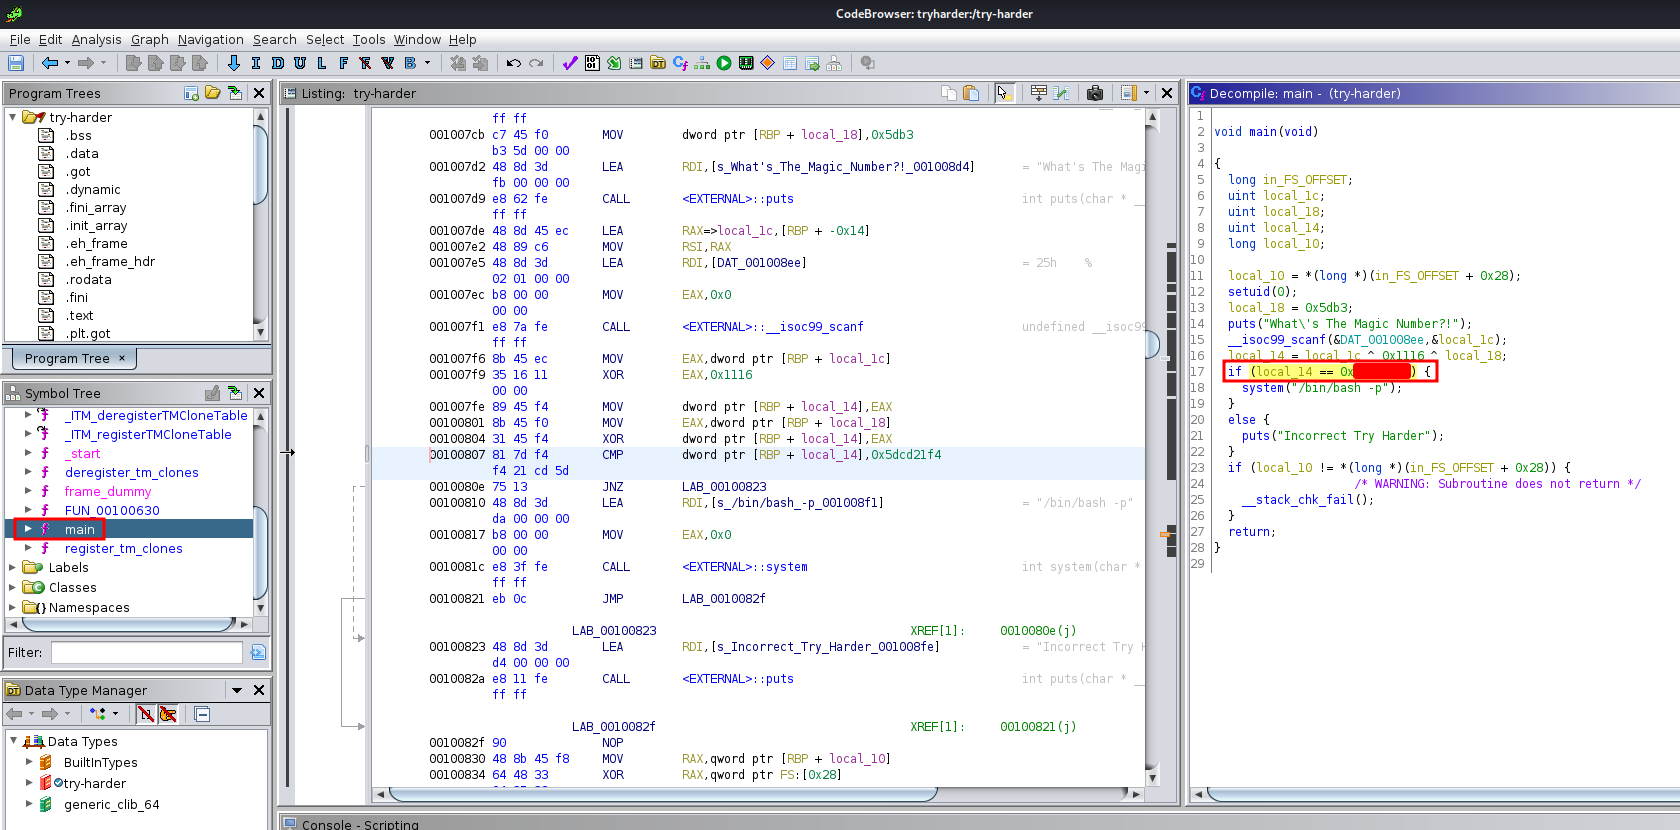
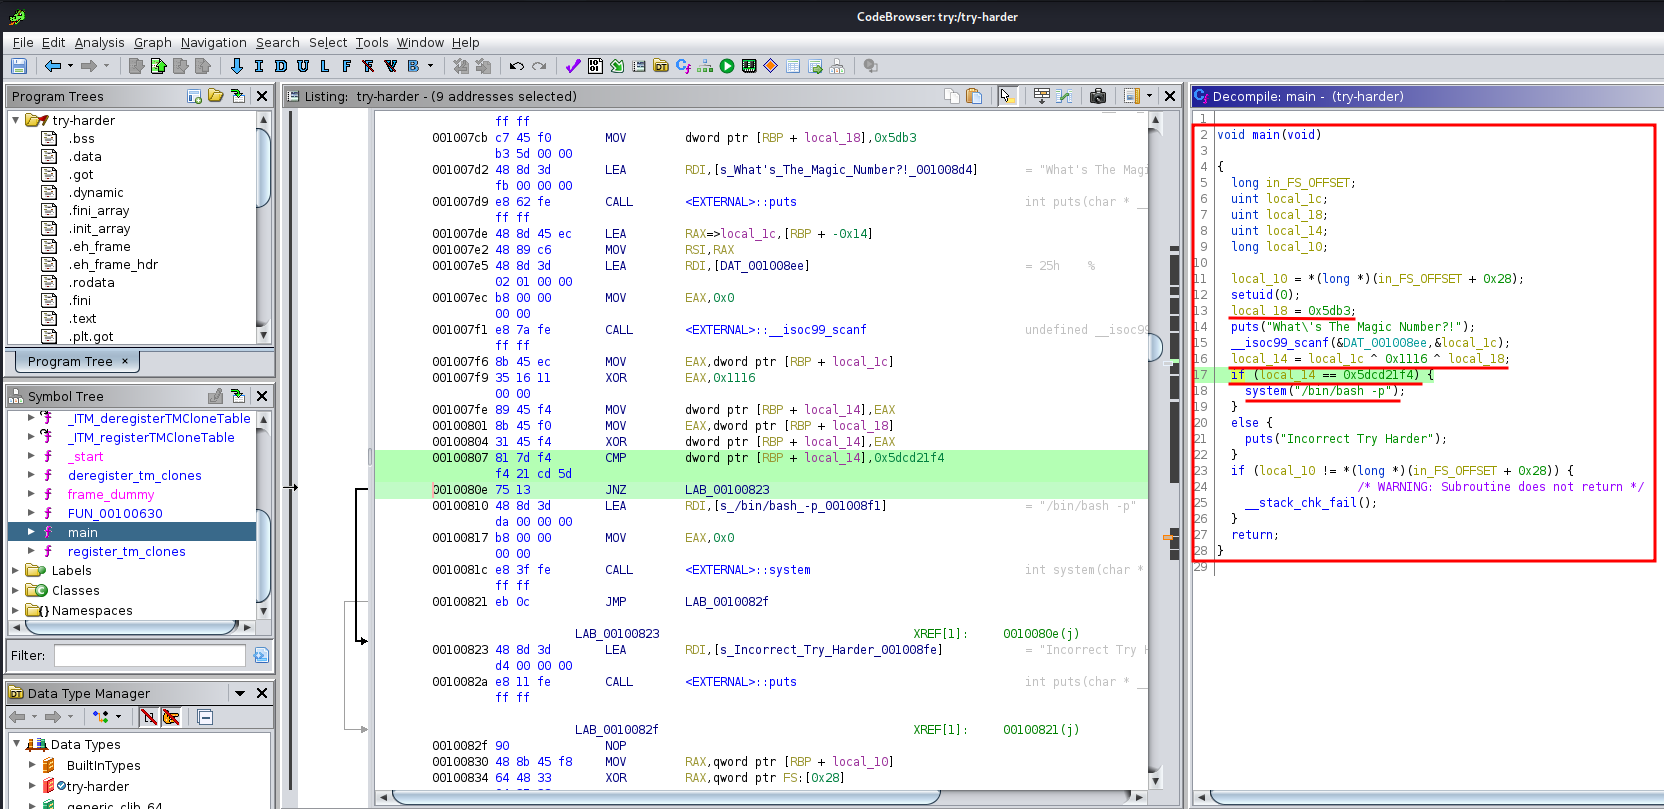
Added Bookstore writeup

Changed region(s): [[0.0, 0.0, 1.0, 1.0], [0.5312, 0.8653, 0.5625, 0.8962]]

diff --git a/TryHackMe/Bookstore/README.md b/TryHackMe/Bookstore/README.md
@@ -104,7 +104,7 @@ Open Ports        | Service
 
 **The `js` directory sometimes will contain some juicy information:**
 
-![](https://github.com/siunam321/CTF-Writeups/blob/main/TryHackMe/Bookstore/images/a4png)
+![](https://github.com/siunam321/CTF-Writeups/blob/main/TryHackMe/Bookstore/images/a4.png)
 
 **After checking other legit thrid-part JavaScript library, the `api.js` stood out:**
 
@@ -256,10 +256,6 @@ sid:x:1000:1000:Sid,,,:/home/sid:/bin/bash
 **Let's find the debugger pin in his bash history file!**
 
 ![](https://github.com/siunam321/CTF-Writeups/blob/main/TryHackMe/Bookstore/images/a11.png)
-
-```
-cd /home/sid whoami export WERKZEUG_DEBUG_PIN={Redacted} echo $WERKZEUG_DEBUG_PIN python3 /home/sid/api.py ls exit
-```
 
 **Found it!! Let's go to `http://bookstore.thm:5000/console` to unlock the Werkzeug Debugger console!**
 
@@ -460,7 +456,7 @@ Serving HTTP on 0.0.0.0 port 8000 (http://0.0.0.0:8000/) ...
 **Let's break it down:**
 
 - If `local_14` is equal to `0x5dcd21f4` (1573724660), then spawn a bash shell with SUID privilege
-- The `local_14` is the value of `local_1c` XOR `0x1116` (4374) XOR `local_18` (23987)
+- The `local_14` is the value of `local_1c` XOR `0x1116` (0x1116 = 4374) XOR `local_18` (0x5db3 = 23987)
 - The `local_1c` is the value of our input (`__isoc99_scanf`)
 
 > Note: You can convert hex value to decimal in ghidra.
